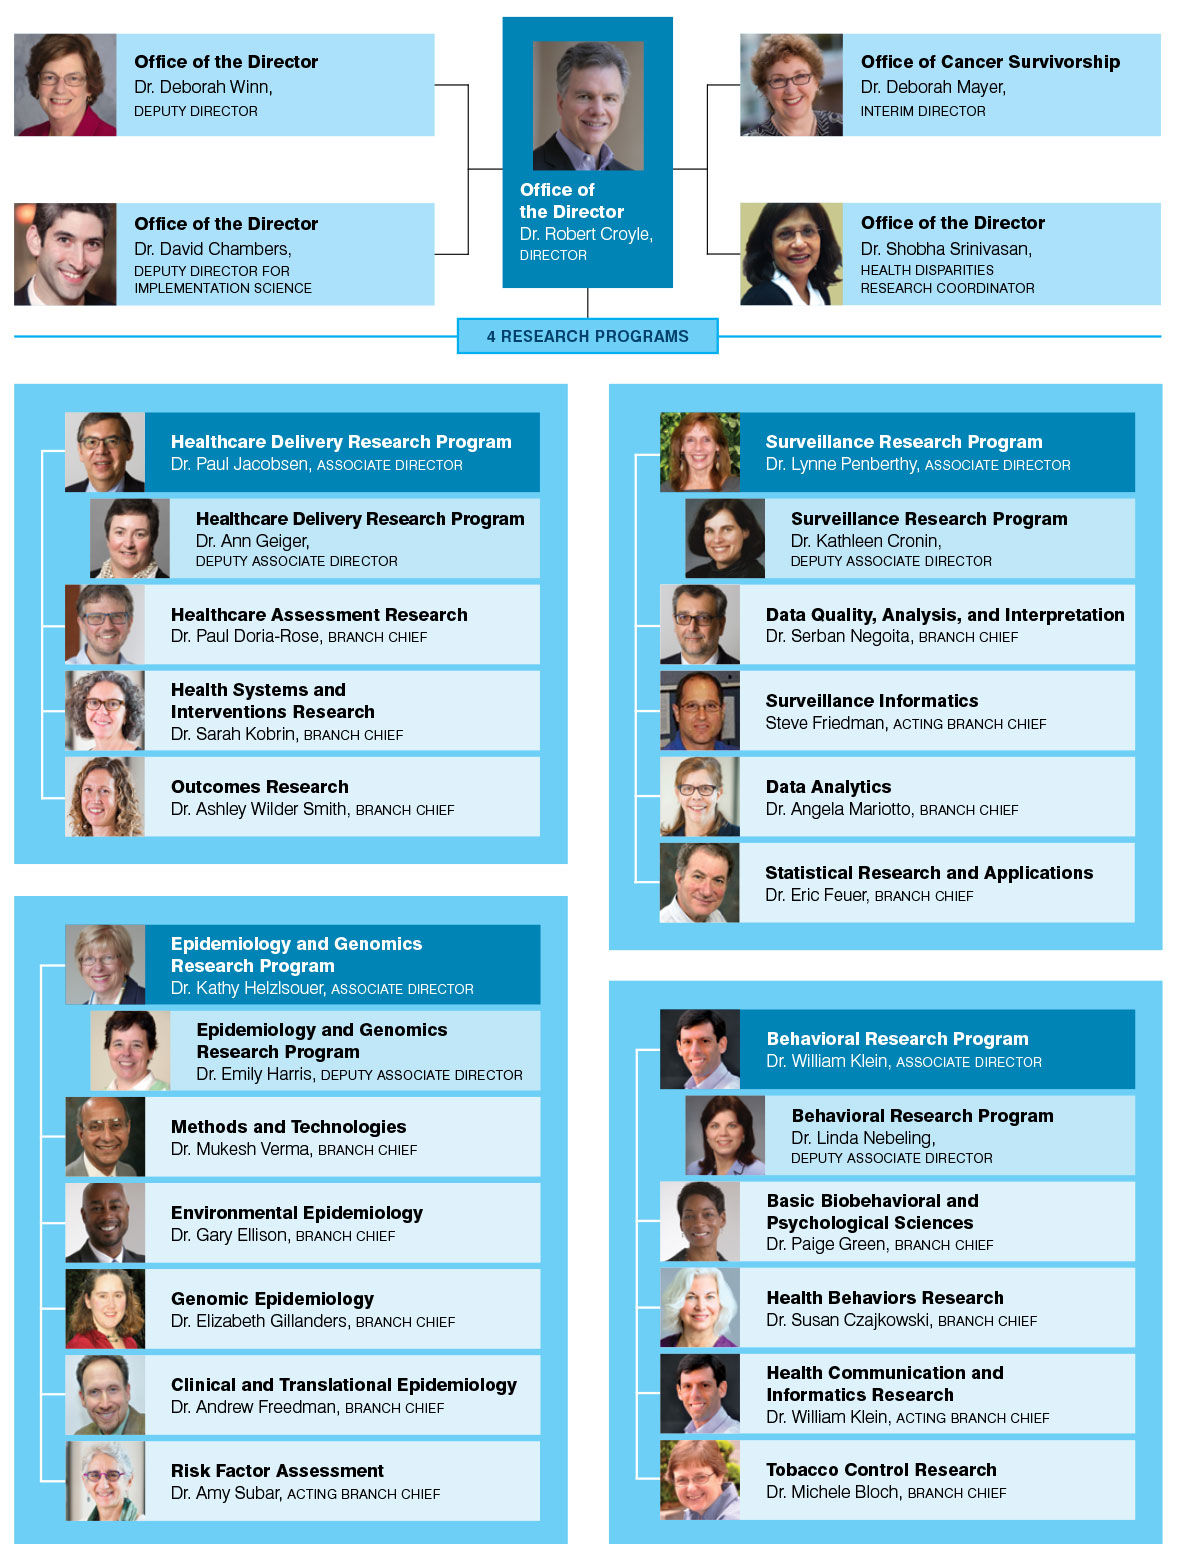
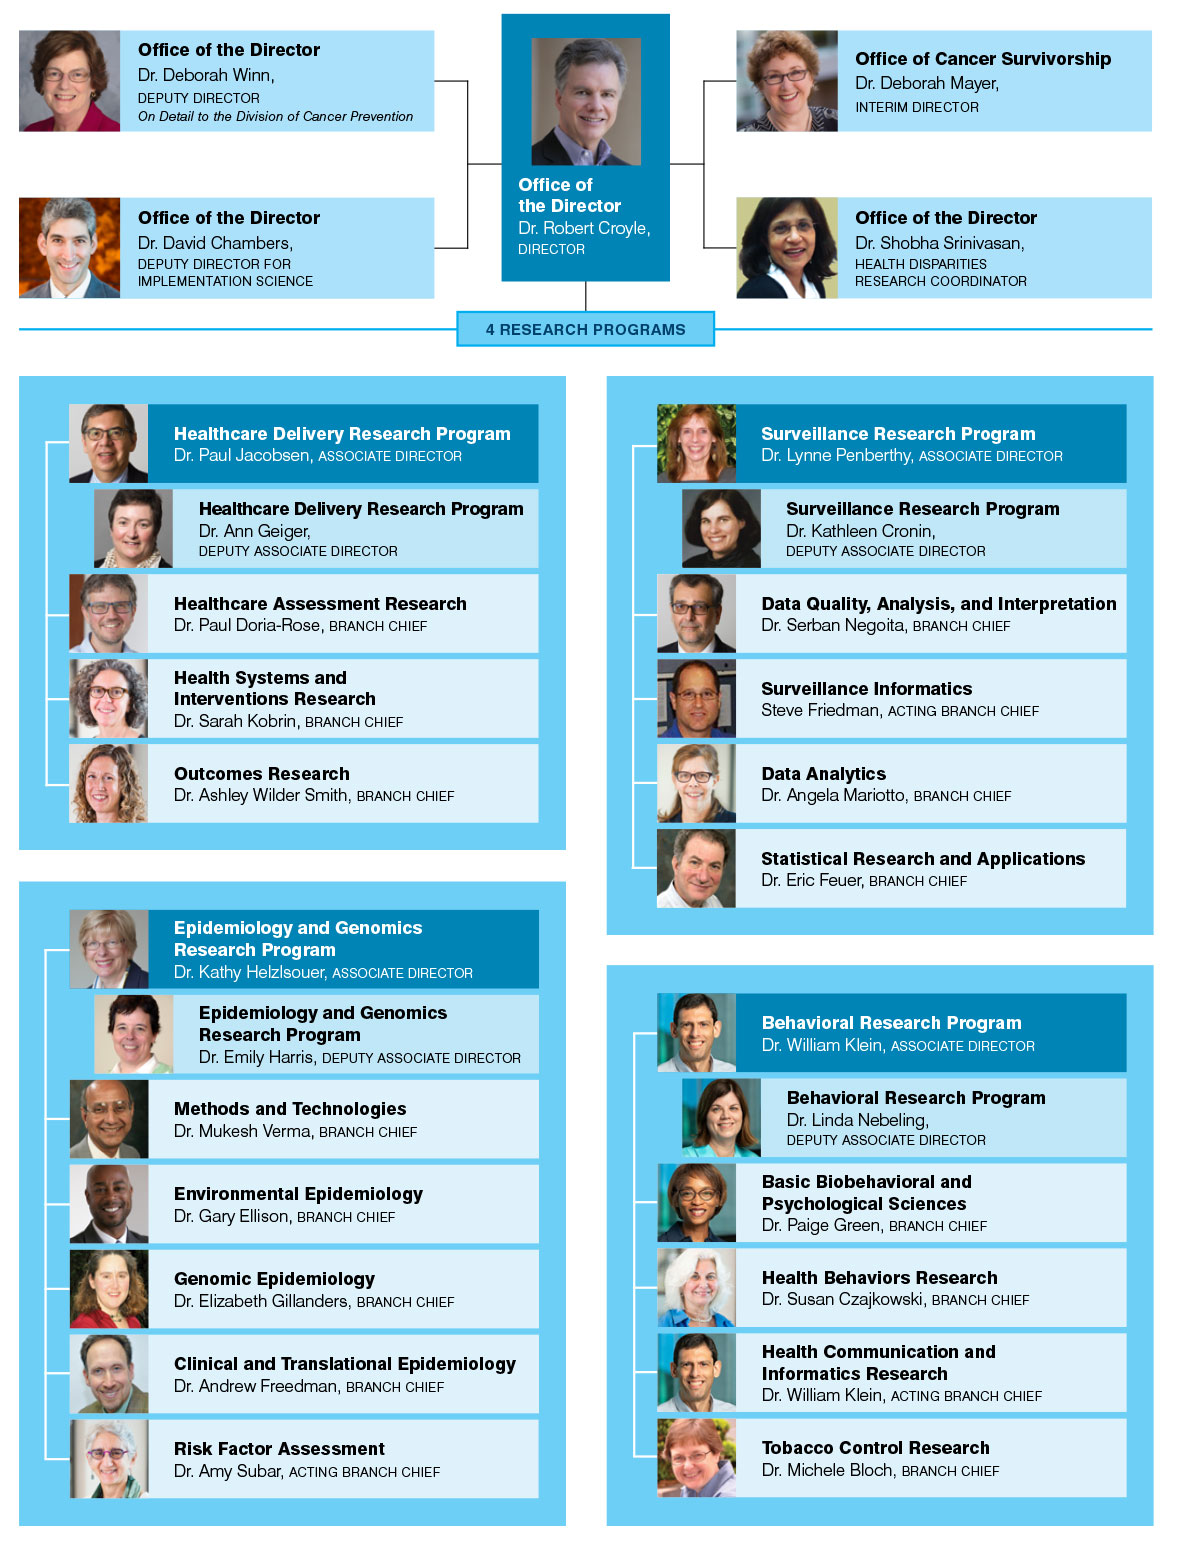
Org Chart updates

diff --git a/od/dep_director_dw.html b/od/dep_director_dw.html
@@ -246,7 +246,8 @@ height="0" width="0" style="display:none;visibility:hidden" title="Google Tag Ma
         <div class="col-md-9">
         <!-- InstanceBeginEditable name="Main-Content" -->
          <h2 class="first">Deborah M. Winn, PhD</h2>
-         <p>Deputy Director, Division of Cancer Control and Population Sciences</p>
+         <p>Deputy Director, Division of Cancer Control and Population Sciences<br>
+         On Detail to the Division of Cancer Prevention         </p>
          <img src="images/DeborahWinn.jpg" alt="Debbie Winn" class="pull-left" style="margin-right: 15px;" />
          <p><a href="winn_cv.pdf">View Full Curriculum Vitae</a> (PDF)</p>
          <p>Dr. Deborah (Debbie) Winn is the Deputy Director of the Division of Cancer Control and Population Sciences (DCCPS) at the National Cancer Institute, part of the National Institutes of Health. As Deputy Director of DCCPS, Dr. Winn plays a central role in the planning, priority setting, development, and management of the division&rsquo;s large integrated extramural programs in cancer surveillance, epidemiology, behavioral science, health services, dissemination and diffusion, and cancer survivorship research. The division funds and supports research in these areas nationally and internationally and helps set and implement research directions in these fields of science. </p>

diff --git a/od/orgchart.html b/od/orgchart.html
@@ -272,7 +272,7 @@ height="0" width="0" style="display:none;visibility:hidden" title="Google Tag Ma
 				<area shape="rect" coords="491,302,840,365" href="https://surveillance.cancer.gov/"  alt="Surveillance Research Program - Dr. Lynn Penberthy, associate director">
 				<area shape="rect" coords="491,749,849,811" href="/brp/" alt="Behavioral Research Program - Dr. William Klein, associate director">
 				<area shape="rect" coords="49,688,404,751" href="https://epi.grants.cancer.gov/oad/" alt="Epidemiology &amp; Genomics Research Program - Kathy Helzlsouer, M.D., M.H.S., associate director">
-				<area shape="rect" coords="7,23,323,103" href="dep_director_dw.html" alt="Deputy Director Dr. Deborah M. Winn">
+				<area shape="rect" coords="7,23,323,103" href="dep_director_dw.html" alt="Deputy Director Dr. Deborah M. Winn, On Detail to the Division of Cancer Prevention">
 				<area shape="rect" coords="373,10,505,217" href="view_rtc.html" alt="Officer of the Director Dr. Robert T Croyle, Director">
 				<area shape="rect" coords="551,26,865,103" href="/ocs/about/director-page.html" alt="Office of Cancer Survivorship - Dr. Deborah Mayer, Interim Director">
 			</map>

diff --git a/od/ODstaff.html b/od/ODstaff.html
@@ -288,7 +288,8 @@ height="0" width="0" style="display:none;visibility:hidden" title="Google Tag Ma
 		<tr>
 			<td><a href="dep_director_dw.html"><img src="images/DeborahWinn.jpg" width="94" height="141" alt="Debbie Winn"></a></td>
 			<th scope="row"><a href="dep_director_dw.html"> Debbie Winn, PhD</a><br>
-				Deputy Director</th>
+				Deputy Director<br>
+				On Detail to the Division of Cancer Prevention</th>
 			<td>240-276-6755</td>
 			<td><a href="mailto:winnde@mail.nih.gov">winnde@mail.nih.gov</a></td>
 		</tr>
